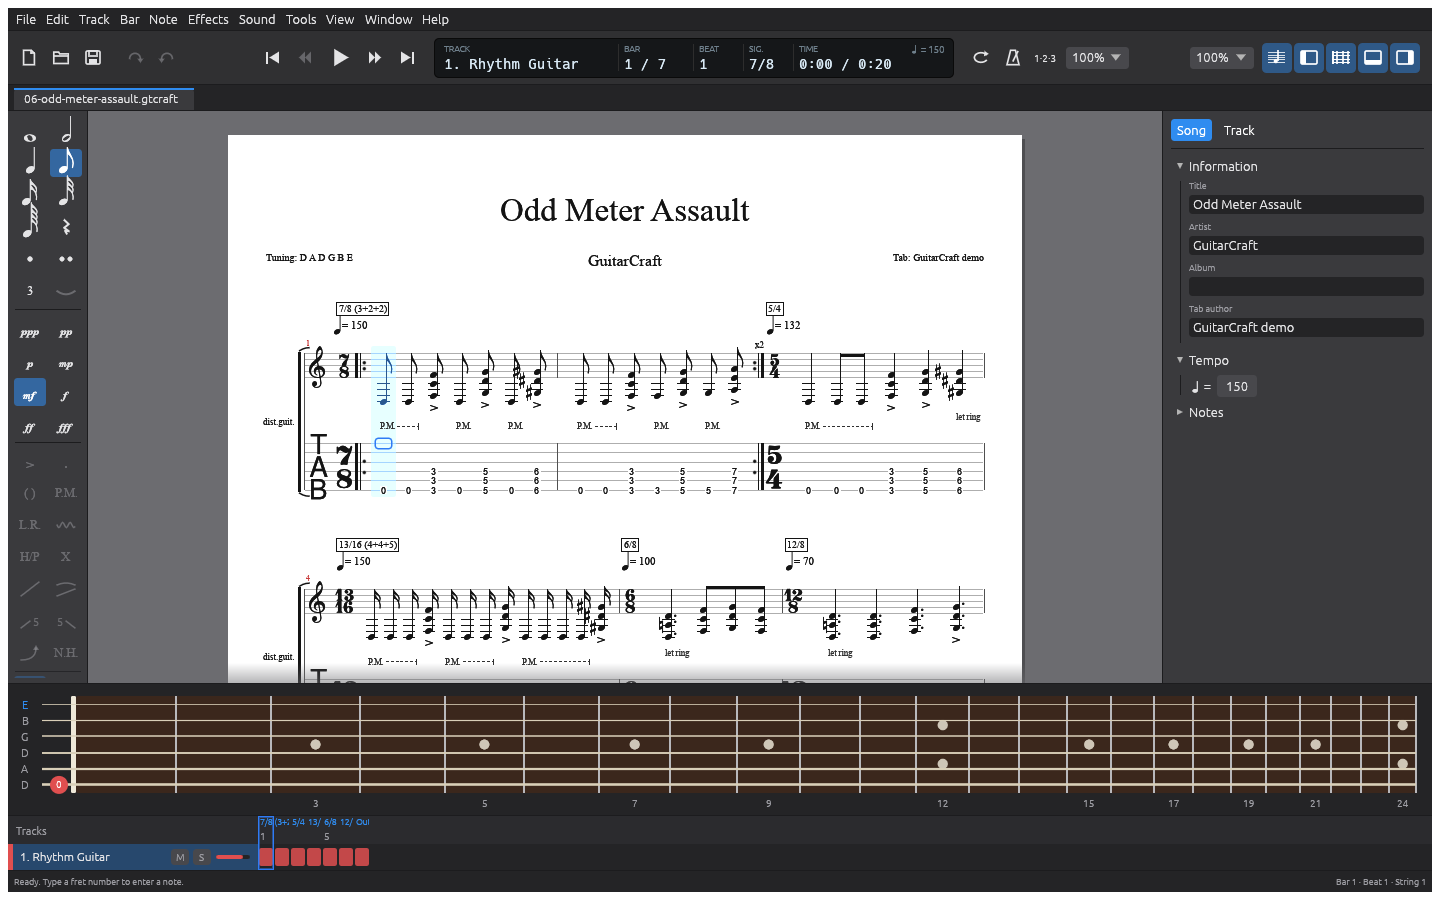
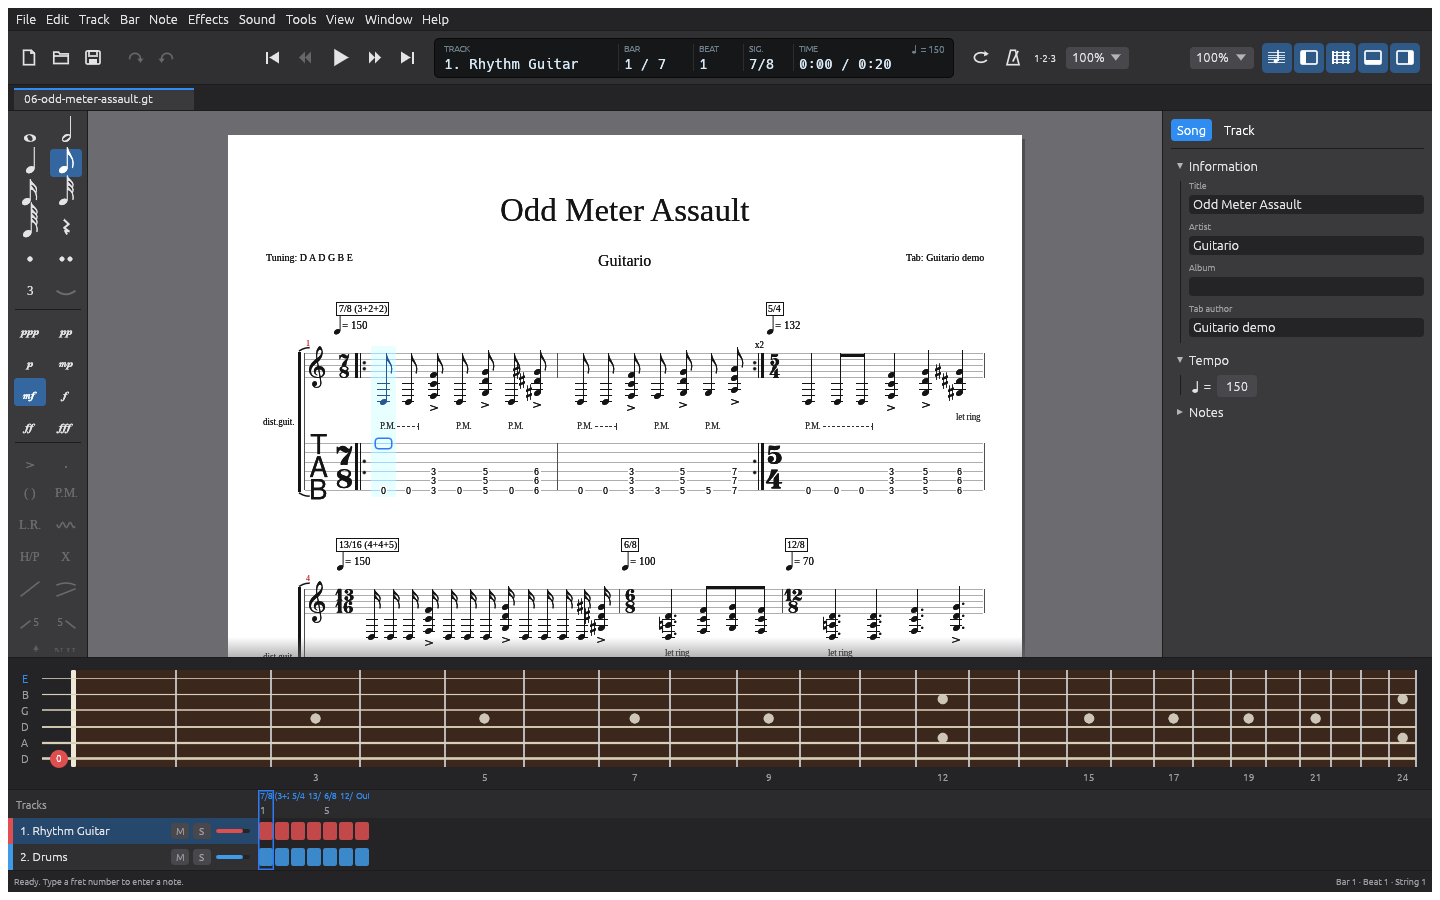
Rename Guitario to Guitario, with .gt native files
The product is Guitario: crates, binaries, ids and environment variables
become guitario (GUITARIO_*) and the native extension is .gt. Nothing a
user made is lost: .gt files and the old format tag still open, the
first run imports Guitario's preferences through craft-settings'
legacy-file hook, and a sound bank in Guitario's data folder is still
found. Demos, the Guitar Pro fixture and the README screenshots are
regenerated under the new name.

Re-rendering the screenshots showed a regression from the move to 20160
ticks per quarter: beat spacing still assumed 960, so every system held a
single bar. Spacing now derives from TICKS_PER_QUARTER, with a test.

Claude-Session: https://claude.ai/code/session_01MC4BrSJvpvrTcmFaeMPu7c

diff --git a/crates/playback/src/bank.rs b/crates/playback/src/bank.rs
@@ -71,6 +71,18 @@ impl std::fmt::Debug for SoundBank {
     }
 }
 
+/// The per-user `sounds` folder of an app called `name` (`folder` on Linux).
+fn data_dir(name: &str, folder: &str) -> Option<PathBuf> {
+    let home = std::env::var_os("HOME").map(PathBuf::from);
+    if cfg!(target_os = "macos") {
+        home.map(|h| h.join("Library/Application Support").join(name).join("sounds"))
+    } else if cfg!(target_os = "windows") {
+        std::env::var_os("APPDATA").map(|a| PathBuf::from(a).join(name).join("sounds"))
+    } else {
+        std::env::var_os("XDG_DATA_HOME").map(PathBuf::from).or_else(|| home.map(|h| h.join(".local/share"))).map(|d| d.join(folder).join("sounds"))
+    }
+}
+
 impl SoundBank {
     /// Reads `<dir>/bank.json`. Unknown roles and missing files are skipped (reported by [`apply`]).
     pub fn open(dir: &Path) -> Result<SoundBank, String> {
@@ -81,19 +93,20 @@ impl SoundBank {
         Ok(SoundBank { dir: dir.to_path_buf(), entries, cache: std::sync::Mutex::default() })
     }
 
-    /// Where banks live by default: `$GUITARIO_SOUNDS`, else the per-user data folder.
+    /// Where banks live by default: `$GUITARIO_SOUNDS`, else the per-user data folder. A bank
+    /// installed before the app was renamed from Guitario is used where it is until Guitario has
+    /// its own.
     pub fn default_dir() -> Option<PathBuf> {
         if let Some(d) = std::env::var_os("GUITARIO_SOUNDS").filter(|d| !d.is_empty()) {
             return Some(PathBuf::from(d));
         }
-        let home = std::env::var_os("HOME").map(PathBuf::from);
-        if cfg!(target_os = "macos") {
-            home.map(|h| h.join("Library/Application Support/Guitario/sounds"))
-        } else if cfg!(target_os = "windows") {
-            std::env::var_os("APPDATA").map(|a| PathBuf::from(a).join("Guitario").join("sounds"))
-        } else {
-            std::env::var_os("XDG_DATA_HOME").map(PathBuf::from).or_else(|| home.map(|h| h.join(".local/share"))).map(|d| d.join("guitario/sounds"))
+        let dir = data_dir("Guitario", "guitario")?;
+        if !dir.exists()
+            && let Some(old) = data_dir("Guitario", "guitario").filter(|d| d.exists())
+        {
+            return Some(old);
         }
+        Some(dir)
     }
 
     /// The bank at [`default_dir`](Self::default_dir), if one is installed.

diff --git a/crates/ui-egui/src/layout.rs b/crates/ui-egui/src/layout.rs
@@ -148,8 +148,10 @@ pub struct PageBox {
 }
 
 fn beat_natural(b: &Beat, space: f32) -> f32 {
+    // Width grows with the log of the length, from 2.7 spaces for a sixteenth.
+    let sixteenth = (guitario_theory::TICKS_PER_QUARTER / 4) as f32;
     let ticks = b.duration.ticks().max(1) as f32;
-    let mut w = space * (2.7 + 1.15 * (ticks / 240.0).log2()).max(1.9);
+    let mut w = space * (2.7 + 1.15 * (ticks / sixteenth).log2()).max(1.9);
     if b.notes.iter().any(|n| n.fret >= 10) {
         w += 0.5 * space;
     }
@@ -326,6 +328,26 @@ mod tests {
         assert!(d.system_h() < g.system_h() * 0.7, "{} vs {}", d.system_h(), g.system_h());
         let pages = layout(&score(40), 0, &d);
         assert!(pages.iter().flat_map(|p| &p.systems).all(|s| s.y + d.system_h() <= d.page_h));
+    }
+
+    #[test]
+    fn a_bar_of_eighths_leaves_room_for_more_bars() {
+        // Spacing is relative to the tick resolution: a sixteenth is 2.7 spaces whatever
+        // TICKS_PER_QUARTER is, and four bars of straight eighths share one A4 system.
+        let m = Metrics::new(1.0, true, 6);
+        let sixteenth = Beat {
+            rest: false,
+            notes: vec![guitario_score::Note::new(0, 0)],
+            ..Beat::rest(guitario_theory::Duration::new(guitario_theory::NoteValue::Sixteenth))
+        };
+        assert!((beat_natural(&sixteenth, m.space) - 2.7 * m.space).abs() < 0.01);
+        let mut s = score(8);
+        let eighth = Beat { rest: false, notes: vec![guitario_score::Note::new(0, 5)], ..Beat::rest(guitario_theory::Duration::EIGHTH) };
+        for m in &mut s.tracks[0].measures {
+            m.voices[0].beats = vec![eighth.clone(); 8];
+        }
+        let pages = layout(&s, 0, &m);
+        assert!(pages[0].systems[0].measures.len() >= 3, "{} bars on the first system", pages[0].systems[0].measures.len());
     }
 
     #[test]

diff --git a/crates/format/src/lib.rs b/crates/format/src/lib.rs
@@ -1,10 +1,15 @@
-//! L3 the native `.gt` file: versioned JSON, validated on load, written atomically.
+//! L3 the native `.gt` file: versioned JSON, validated on load, written atomically. Files saved
+//! before the app was renamed from Guitario (`.gt`, format tag `guitario`) still load.
 
 use guitario_score::{Score, ScoreError};
 use serde::{Deserialize, Serialize};
 use std::path::Path;
 
 pub const FORMAT: &str = "guitario";
+/// The format tag files carried before the rename; read, never written.
+pub const LEGACY_FORMAT: &str = "guitario";
+/// Native file extensions: `.gt`, and `.gt` from before the rename.
+pub const EXTENSIONS: [&str; 2] = ["gt", "gt"];
 pub const VERSION: u32 = 1;
 /// Refuse absurd inputs before parsing.
 const MAX_BYTES: usize = 256 * 1024 * 1024;
@@ -50,7 +55,7 @@ pub fn from_bytes(bytes: &[u8]) -> Result<Score, FormatError> {
         return Err(FormatError::TooLarge);
     }
     let file: FileIn = serde_json::from_slice(bytes)?;
-    if file.format != FORMAT {
+    if file.format != FORMAT && file.format != LEGACY_FORMAT {
         return Err(FormatError::NotGuitario);
     }
     if file.version > VERSION {
@@ -95,6 +100,16 @@ mod tests {
         let mut s = Score::new();
         s.meta.title = "Test".into();
         assert_eq!(from_bytes(&to_bytes(&s).unwrap()).unwrap(), s);
+    }
+
+    #[test]
+    fn files_from_before_the_rename_still_load() {
+        let mut s = Score::new();
+        s.meta.title = "Old".into();
+        let mut v: serde_json::Value = serde_json::from_slice(&to_bytes(&s).unwrap()).unwrap();
+        assert_eq!(v["format"], "guitario");
+        v["format"] = LEGACY_FORMAT.into();
+        assert_eq!(from_bytes(v.to_string().as_bytes()).unwrap(), s);
     }
 
     #[test]

diff --git a/crates/ui-egui/src/prefs.rs b/crates/ui-egui/src/prefs.rs
@@ -79,6 +79,22 @@ impl Prefs {
 
 pub type Store = SettingsStore<Prefs>;
 
+/// Preferences saved before the app was renamed from Guitario: read once, when Guitario has no
+/// `config.toml` of its own yet. The old file is left in place.
+pub fn legacy_files() -> Vec<craft_settings::LegacyFile<Prefs>> {
+    craft_settings::Probe::default()
+        .platform_config_dir
+        .map(|d| vec![craft_settings::LegacyFile { path: d.join("guitario").join("config.toml"), parse: parse_config }])
+        .unwrap_or_default()
+}
+
+/// A `config.toml` written by this app under another name; unreadable sections fall back to defaults.
+fn parse_config(bytes: &[u8]) -> Result<Prefs, String> {
+    let text = std::str::from_utf8(bytes).map_err(|e| e.to_string())?;
+    let doc = craft_settings::document::parse(text).map_err(|e| e.to_string())?;
+    Ok(craft_settings::document::deserialize_sections::<Prefs>(&doc).0.sanitized())
+}
+
 #[cfg(test)]
 mod tests {
     use super::*;
@@ -102,6 +118,19 @@ mod tests {
         p.push_recent("b");
         p.push_recent("a");
         assert_eq!(p.files.recent, vec!["a", "b"]);
+    }
+
+    #[test]
+    fn guitario_preferences_carry_over() {
+        let mut old = Prefs::default();
+        old.view.zoom = 2.0;
+        old.push_recent("/songs/riff.gt");
+        let mut doc = craft_settings::document::new_document(1);
+        craft_settings::document::merge_into(&mut doc, &old).unwrap();
+        let read = parse_config(craft_settings::document::render(&doc).as_bytes()).unwrap();
+        assert_eq!(read, old);
+        assert!(parse_config(b"\xff\xfe").is_err());
+        assert!(legacy_files().iter().all(|f| f.path.ends_with("guitario/config.toml")));
     }
 
     #[test]

diff --git a/crates/ui-egui/src/lib.rs b/crates/ui-egui/src/lib.rs
@@ -139,9 +139,9 @@ impl GuitarioApp {
     }
 
     /// Opens persistent preferences the suite's way: `config.toml` in the platform folder, or
-    /// `GUITARIO_CONFIG_DIR`.
+    /// `GUITARIO_CONFIG_DIR`. The first run after the rename imports Guitario's preferences.
     pub fn open_settings() -> (prefs::Store, craft_settings::LoadReport) {
-        prefs::Store::open(craft_settings::Location::Auto)
+        prefs::Store::open_with(craft_settings::OpenOptions::new(craft_settings::Location::Auto).legacy(prefs::legacy_files()))
     }
 
     /// Writes the current UI state into the settings store; it saves shortly after a change.
@@ -419,7 +419,7 @@ impl GuitarioApp {
     }
 
     fn open_dialog_now(&mut self) {
-        let mut kinds = vec!["gt"];
+        let mut kinds = guitario_engine::NATIVE_EXTENSIONS.to_vec();
         kinds.extend(guitario_engine::GUITAR_PRO_EXTENSIONS);
         let dialog = rfd::FileDialog::new().add_filter("Guitar scores", &kinds).add_filter("Guitar Pro", &guitario_engine::GUITAR_PRO_EXTENSIONS);
         if let Some(p) = dialog.pick_file() {

diff --git a/xtask/src/scorecard.rs b/xtask/src/scorecard.rs
@@ -136,8 +136,7 @@ fn measure(root: &Path) -> Measured {
     let engine = root.join("crates/engine/src");
     let commands = count_cmds_in(&engine);
     let panic_hunt = std::fs::read_to_string(root.join("crates/engine/tests/engine.rs")).is_ok_and(|s| s.contains("fn panic_hunt"));
-    let demos =
-        std::fs::read_dir(root.join("demos")).map(|rd| rd.flatten().filter(|e| e.path().extension().is_some_and(|x| x == "gt")).count()).unwrap_or(0);
+    let demos = std::fs::read_dir(root.join("demos")).map(|rd| rd.flatten().filter(|e| e.path().extension().is_some_and(|x| x == "gt")).count()).unwrap_or(0);
     let parity = std::fs::read_to_string(root.join("docs/parity-checklist.md"))
         .ok()
         .and_then(|s| s.lines().find(|l| l.starts_with("**Live:**")).map(|l| l.trim_start_matches("**Live:**").trim().to_string()));

diff --git a/crates/engine/src/selection.rs b/crates/engine/src/selection.rs
@@ -307,9 +307,8 @@ mod tests {
 
     #[test]
     fn paste_overwrites_and_pads() {
-        let mut v = Voice {
-            beats: vec![Beat::rest(Duration::new(guitario_theory::NoteValue::Half)), Beat::rest(Duration::new(guitario_theory::NoteValue::Half))],
-        };
+        let mut v =
+            Voice { beats: vec![Beat::rest(Duration::new(guitario_theory::NoteValue::Half)), Beat::rest(Duration::new(guitario_theory::NoteValue::Half))] };
         let q = guitario_theory::TICKS_PER_QUARTER;
         paste_into(&mut v, 0, &[beat(3, Duration::QUARTER)], 4 * q).unwrap();
         // A quarter replaced the first half; a quarter rest fills the gap.

diff --git a/crates/gp/tests/gp5.rs b/crates/gp/tests/gp5.rs
@@ -133,13 +133,10 @@ fn every_demo_survives_guitar_pro_5() {
 
 fn riff() -> Score {
     let mut s = Score::new();
-    s.meta = Meta {
-        title: "Ünïcode – riff".into(),
-        artist: "Guitario".into(),
-        album: "Tests".into(),
-        author: "Tabber".into(),
-        notes: "line one\nline two".into(),
-    };
+    s.meta =
+        Meta {
+            title: "Ünïcode – riff".into(), artist: "Guitario".into(), album: "Tests".into(), author: "Tabber".into(), notes: "line one\nline two".into()
+        };
     s.tempo = 152;
     let e = Duration::EIGHTH;
     let mut h = MeasureHeader::new(TimeSignature::COMMON);

diff --git a/crates/engine/src/lib.rs b/crates/engine/src/lib.rs
@@ -25,4 +25,6 @@ pub use selection::{Clip, Selection};
 
 /// File extensions `file.open` imports as Guitar Pro.
 pub const GUITAR_PRO_EXTENSIONS: [&str; 5] = guitario_gp::EXTENSIONS;
+/// Native file extensions: `.gt`, and `.gt` from before the rename.
+pub const NATIVE_EXTENSIONS: [&str; 2] = guitario_format::EXTENSIONS;
 pub use session::{Cursor, Session};

diff --git a/AGENTS.md b/AGENTS.md
@@ -1,6 +1,6 @@
 # AGENTS.md: guide for AI agents and contributors
 
-Guitario is an open-source, native, Guitar Pro-comparable tablature and notation editor written in **Rust only** (no JavaScript or TypeScript). **No Tauri, Electron or webview shells:** the desktop app is native egui/eframe on wgpu, and the engine crates build for WebAssembly. Never add Tauri (or any webview/JS UI framework) as a dependency, build step or packaging target. The product name is always written **Guitario** (`{Function}Craft` in PascalCase, like its siblings another app, DesignCraft, VectorCraft, another app, another app, LightCraft, PdfCraft) in user-facing text: UI, window titles, About, installers, release names, docs prose. Machine names stay lowercase: crates (`guitario-*`), binaries, file names, ids (`ai.storyteller.guitario`). Standards and learnings shared across the sibling apps live in `../shared-rules` (read its `README.md`; the repository is not public — outside contributors should ask a maintainer for the standards relevant to their change). Shared Rust components live in [storytold/craft-libs](https://github.com/storytold/craft-libs) and are pinned by immutable git revision. The goal is 1:1 Guitar Pro parity (same layout, menus, shortcuts, behaviour and file fidelity) with better performance, and every feature drivable by agents. Read this file first, then `docs/`.
+Guitario is an open-source, native, Guitar Pro-comparable tablature and notation editor written in **Rust only** (no JavaScript or TypeScript). **No Tauri, Electron or webview shells:** the desktop app is native egui/eframe on wgpu, and the engine crates build for WebAssembly. Never add Tauri (or any webview/JS UI framework) as a dependency, build step or packaging target. The product name is always written **Guitario** in user-facing text: UI, window titles, About, installers, release names, docs prose (it was called Guitario until 2026-10-16). Machine names stay lowercase: crates (`guitario-*`), binaries, file names, ids (`ai.storyteller.guitario`), environment variables (`GUITARIO_*`). The native file extension is `.gt`; files saved as `.gt` by earlier builds still open. Guitario still shares standards and libraries with the sibling apps (another app, another app, another app …): standards and learnings shared across them live in `../shared-rules` (read its `README.md`; the repository is not public — outside contributors should ask a maintainer for the standards relevant to their change). Shared Rust components live in [storytold/craft-libs](https://github.com/storytold/craft-libs) and are pinned by immutable git revision. The goal is 1:1 Guitar Pro parity (same layout, menus, shortcuts, behaviour and file fidelity) with better performance, and every feature drivable by agents. Read this file first, then `docs/`.
 
 ## 1. Orientation (5 minutes)
 
@@ -98,7 +98,7 @@ Then append a terse entry to `log/devlog.md` (gitignored): what landed, numbers,
 
 ## 8. Keeping the native format complete
 
-`.gt` is the serde form of `guitario-score`. When you add a model field, give it `#[serde(default)]` so older files still load, and map it in `crates/gp` if Guitar Pro has it.
+`.gt` is the serde form of `guitario-score`. When you add a model field, give it `#[serde(default)]` so older files still load, and map it in `crates/gp` if Guitar Pro has it. Files from before the rename (`.gt`, format tag `guitario`) must keep loading.
 
 ## Guitar Pro format notes
 

diff --git a/docs/decisions.md b/docs/decisions.md
@@ -40,3 +40,21 @@ Atomic saves (`craft-atomic`), settings (`craft-settings`) and the platform quit
 from craft-libs at a pinned revision instead of app-local code. `craft-ui` is not used yet: its
 docking and tab widgets fit apps with dockable panels; adopt it with the multitrack and floating
 panel work (G8).
+
+## 2026-10-16: Guitar Pro files are told by content, and a real-file corpus stays local
+
+`file.open` imports any Guitar Pro file by its extension, and `crates/gp` picks the reader from the
+first bytes (ZIP, BCFZ/BCFS or a `FICHIER GUITAR PRO` banner), so a misnamed file still reads. An
+import is an unsaved document, so Save never writes native JSON over a Guitar Pro file. The readers
+were checked against public test files from other projects, used only as data in a local folder
+(`GUITARIO_GP_CORPUS`, `crates/gp/tests/corpus.rs`); they are not committed, and no code of those
+projects was read. Committed tests round-trip our own demos through the `.gp5` writer instead.
+
+## 2026-10-16: Renamed from Guitario to Guitario
+
+The product is **Guitario**; crates, binaries, ids and environment variables are `guitario`
+(`GUITARIO_*`), and the native file extension is `.gt`. Nothing a user made is lost: `.gt`
+files and the old `"guitario"` format tag still open, the first run imports Guitario's
+`config.toml` through craft-settings' legacy-file hook, and a sound bank installed in Guitario's
+data folder is used until Guitario has its own. Guitario keeps using the shared craft-libs crates
+and shared-rules standards.

diff --git a/docs/scorecard.md b/docs/scorecard.md
@@ -12,7 +12,7 @@ Generated by `cargo xtask scorecard` from `scorecard/*.toml` and the source tree
 | [Files and exchange](#files-and-exchange) | 4 | 3 | 3 | 15 demo scores load, validate and play (`crates/engine/tests/demos.rs`) |
 | [Workspace and UI](#workspace-and-ui) | 4 | 3 | 3 |  |
 | [Automation](#automation) | 3 | 0 | 2 | 83 engine commands; menu parity 121 of 172 menu items (70%) |
-| [Reliability](#reliability) | 3 | 0 | 3 | never-crash lints on 11 of 11 crates; panic_hunt present; 148 tests |
+| [Reliability](#reliability) | 3 | 0 | 3 | never-crash lints on 11 of 11 crates; panic_hunt present; 151 tests |
 | [Distribution](#distribution) | 1 | 1 | 3 |  |
 | **Total** | **33** | **21** | **18** | |
 
